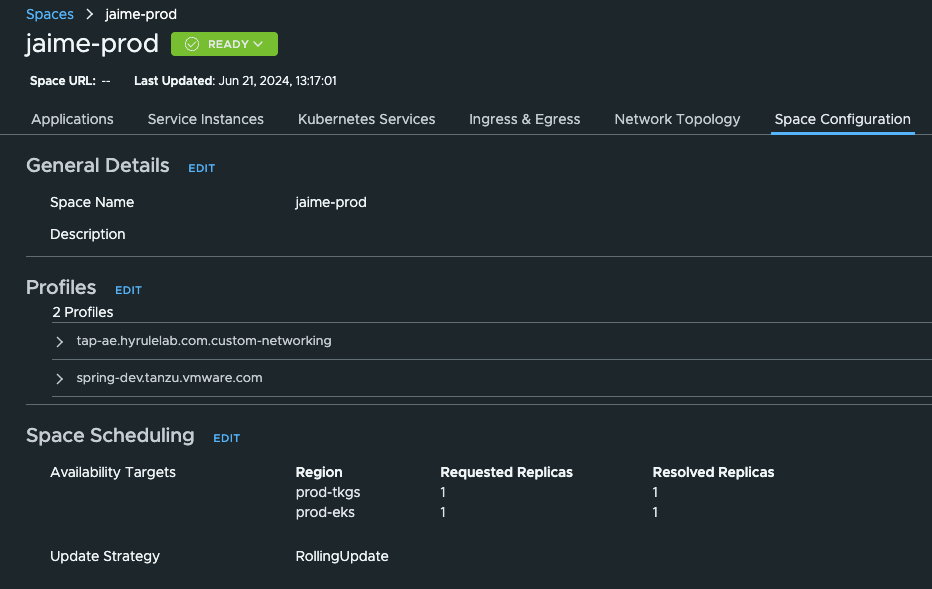
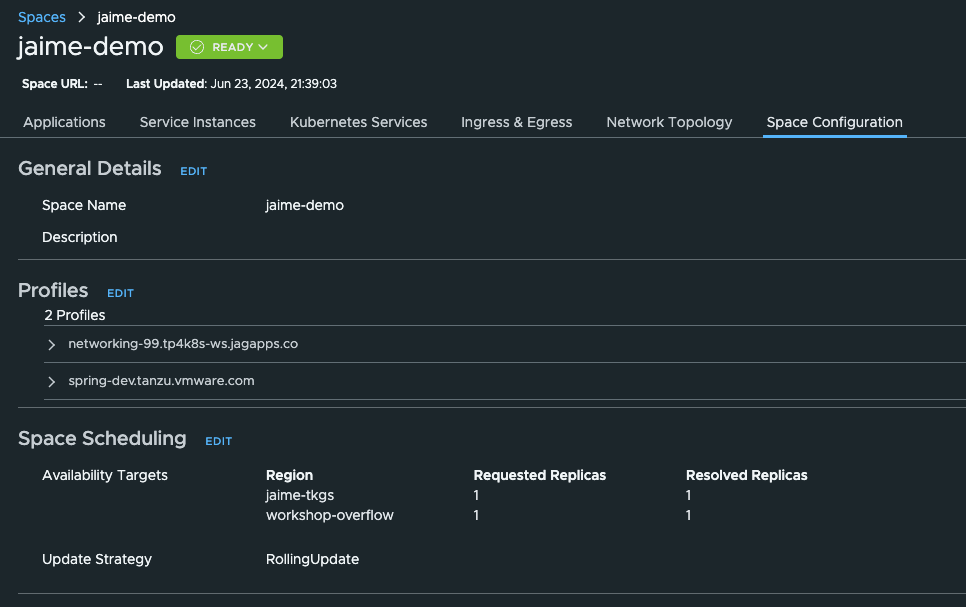
pe lab Ingress details and space screenshots

diff --git a/lab-platform-engineer/01-full-lab.md b/lab-platform-engineer/01-full-lab.md
@@ -87,7 +87,7 @@ In a day in the life of a Platform Engineer we will start by creating a Cluster 
 #### Create Cluster Group
 [Official documentation](https://docs.vmware.com/en/VMware-Tanzu-Platform/services/create-manage-apps-tanzu-platform-k8s/how-to-create-run-cluster-group.html)
 
-Access the Hub GUI: `Infrastructure > Kubedrnetes Clusters > Create Cluster Group > Choose a name`.
+Access the Hub GUI: `Infrastructure > Kubedrnetes Clusters > Create Cluster Group`. Choose a name that's unique for you (e.g: name-cg)
 
 Make sure to enable Tanzu Application Engine.
 
@@ -155,22 +155,22 @@ https://www.mgmt.cloud.vmware.com/hub/application-engine/capabilities?view=insta
 You should see something like this:
 ![ClusterGroup Capabilities](./img/cg-capabilities.png)
 
-Via command line you can check this:
+Via command line you can check all the Packages (pkgi resource) for those Capabilities are created by running these commands:
 ```
 alias tk='KUBECONFIG=~/.config/tanzu/kube/config kubectl'
 tk get pkgi
-NAME                                    PACKAGE NAME                            PACKAGE VERSION             DESCRIPTION   AGE
-k8sgateway.tanzu.vmware.com             k8sgateway.tanzu.vmware.com             0.0.7                                     21h
-cert-manager.tanzu.vmware.com           cert-manager.tanzu.vmware.com           2.9.1                                     21h
-observability.tanzu.vmware.com          observability.tanzu.vmware.com          1.0.13                                    21h
-mtls.tanzu.vmware.com                   mtls.tanzu.vmware.com                   0.0.1                                     21h
-servicebinding.tanzu.vmware.com         servicebinding.tanzu.vmware.com         0.13.0                                    21h
-spring-cloud-gateway.tanzu.vmware.com   spring-cloud-gateway.tanzu.vmware.com   2.2.4                                     21h
-container-apps.tanzu.vmware.com         container-apps.tanzu.vmware.com         0.0.3+1715585258.1ef0f6e7                 21h
-tanzu-servicebinding.tanzu.vmware.com   tanzu-servicebinding.tanzu.vmware.com   1.0.0+1717058073.8e6bdbf8                 21h
-bitnami.services.tanzu.vmware.com       bitnami.services.tanzu.vmware.com       0.6.0                                     21h
-tcs.tanzu.vmware.com                    tcs.tanzu.vmware.com                    2.2.11                                    21h
-crossplane.tanzu.vmware.com             crossplane.tanzu.vmware.com             0.6.1                                     21h
+NAME                                    PACKAGE NAME                            PACKAGE VERSION   DESCRIPTION   AGE
+cert-manager.tanzu.vmware.com           cert-manager.tanzu.vmware.com                                           2m8s
+k8sgateway.tanzu.vmware.com             k8sgateway.tanzu.vmware.com                                             2m7s
+tcs.tanzu.vmware.com                    tcs.tanzu.vmware.com                                                    2m5s
+observability.tanzu.vmware.com          observability.tanzu.vmware.com                                          2m4s
+mtls.tanzu.vmware.com                   mtls.tanzu.vmware.com                                                   2m4s
+crossplane.tanzu.vmware.com             crossplane.tanzu.vmware.com                                             2m2s
+bitnami.services.tanzu.vmware.com       bitnami.services.tanzu.vmware.com                                       2m2s
+container-apps.tanzu.vmware.com         container-apps.tanzu.vmware.com                                         2m
+servicebinding.tanzu.vmware.com         servicebinding.tanzu.vmware.com                                         119s
+tanzu-servicebinding.tanzu.vmware.com   tanzu-servicebinding.tanzu.vmware.com                                   118s
+spring-cloud-gateway.tanzu.vmware.com   spring-cloud-gateway.tanzu.vmware.com                                   117s
 ```
 
 #### (Optionl) Remove needed capability to test error scenario
@@ -187,12 +187,12 @@ Access the Hub GUI: `Infrastructure > Kuberentes Clusters > Clusters > Add Clust
     - The management cluster is the Supervisor cluster that the workshop owner provided you.
     - Provisioner: click to show a drop down menu and choose the name of the Supervisor Namespace that the workshop owner provided you.
 - Step 2: Name and assign
-    - Cluster name: pick a name. Tip: use something unique in it like your name and use a suffix with a number (you may create 2 clusters)
+    - Cluster name: pick a name. Tip: use something unique in it like your name and use a suffix with a number.
     - Cluster Group: click to show a drop down menu and choose the Cluster Group you created earlier.
     - Cluster class: click to show a drop down menu and choose `tanzukubernetesclusterclass`.
     - Labels: DO NOT SKIP! Choose a couple of labels to have options later to target your clusters. Examples:
         - `vsphere: 8.0.2c` -> to identify it as a TKGS/VCF cluster with version
-        - `test-jaime: true` -> to identify it as one of my test clusters (change to somehting unique for you)
+        - `jaime-demo: true` -> to identify it as one of my test clusters (change to somehting unique for you)
 - Step 3: Configure network and storage settings
     - Under Allowed storage clases, click on Add Storage Class and select the storage class from the drop down menu.
     - Under Default storage classe, do the same.
@@ -322,9 +322,9 @@ tanzu-system                 vss-k8s-collector                                 v
 We will use the yaml/CLI apprach to define & create the Availability Target to have more flexibility and to use a single matchExpression with two elements in order to have it work as an AND logical operator, which is not currently supported in the UI.
 
 Check the `at-tkgs.yaml` template file in this folder of the repo:
-- Notice to elements in the matchExpressions array: we want this availability target to match clusters that have the first label AND the second label.
+- Notice two elements in the matchExpressions array: we want this availability target to match clusters that have the first label AND the second label.
     - Let's keep the `vsphere` label and edit the other one to be something unique for you that describes your clusters
-- Change the `metadata.name` to something unique for you to avoid overlapping with other ATs in the project.
+- Change the `metadata.name` to something unique for you to avoid overlapping with other ATs in the project. Example: `yourname-tkgs`
 - Then create the AT following these commands:
 ```
 tanzu project use <project-name>
@@ -372,7 +372,7 @@ Here's the Ingress and GSLB Architecture:
 
 Access the Hub GUI: `Application Spaces > Profiles > Create Profile > Step by Step`:
 - Step 1: Name your Profile
-    - Choose a uniuque name, distinctive from other networking profiles for other networking profiles configured for other domain names. Example `networking.mydomain.com`:
+    - Choose a uniuque name, distinctive from other networking profiles configured for other domain names. Example `networking.mydomain.com`:
 - Step 2: Choose required traits:
     - `egress.tanzu.vmware.com`, `multicloud-cert-manager.tanzu.vmware.com`, and `multicloud-ingress.tanzu.vmware.com`. This will allow us to deploy the related packages in the k8s clusters with specific configuration for the Spaces that use this profile. More on this when we create a Space.
 - Step 3: Configure the `egress` trait:
@@ -426,11 +426,11 @@ tk get profile <profile-name> -oyaml | yq '(.status.conditions, .status.required
 
 Access the Hub GUI: `Application Spaces > Spaces > Create Space > Step by Step`:
 - Step 1: Name your Space:
-    - Choose a uniuque name, the convention we will use in this workshop is to provide some notion of the apps lifecycle. Example `myname-prod`:
+    - Choose a uniuque name, the convention we will use in this workshop is to provide some notion of the apps lifecycle. Example `yourname-demo`:
     - Make sure the name is under 27 characters to avoid hitting an issue with the DNS record creation process.
 - Step 2: Select the Profiles:
     - Choose the Custom Networking Profile you have created earlier
-    - Choose the Spring-dev profile which include all other Traits and Capabilities you will need in this workshop
+    - Choose the `spring-dev-simple.sa.tanzu.vmware.com` profile which include all other Traits and Capabilities you will need in this workshop.
 - Step 3: Select Avaiability Targets:
     - Click on `Add Availability Target` and choose the AT we created earlier which targets the TKGS cluster. Set # Replicas to `1`. This will be our vsphere/TKGS Fault Domain
     - Click on `Add Availability Target` and choose the `workshop-overflow` AT also with `1` replica. This will be our EKS Fault Domain
@@ -501,28 +501,28 @@ tk get myname-prod-588d6d66b5-2cjrc -oyaml .status
 kubectl get ns
 # we should now see two new namespaces that match with the managedspace resource name
 NAME                                    STATUS   AGE
-myname-prod-588d6d66b5-2cjrc            Active   56m  # this is the namespace where the apps will be deployed
-myname-prod-588d6d66b5-2cjrc-internal   Active   56m  # this is an auxiliary namespace that includes the traits packages and their configuration
+jaime-demo-58d6c9cf7d-wkbk9             Active   6m24s  # this is the namespace where the apps will be deployed
+jaime-demo-58d6c9cf7d-wkbk9-internal    Active   6m24s  # this is an auxiliary namespace that includes the traits packages and their configuration
 ```
 
 3. Check contents of the app namespace
 ```
-kubectl get pod,svc -n jaime-wkshp-tests-588d6d66b5-2cjrc
+kubectl get pod,svc -n jaime-demo-58d6c9cf7d-wkbk9
 # we should only see the multicloiud-ingress-operator pod since no apps have been deployed yet
-NAME                                              READY   STATUS    RESTARTS   AGE
-pod/multicloud-ingress-operator-784c6d947-wxprf   1/1     Running   0          63m
+NAME                                               READY   STATUS    RESTARTS   AGE
+pod/multicloud-ingress-operator-7bb85d98bc-7mrjj   1/1     Running   0          6m22s
 ```
 
 4. Check the packages in the auxiliar namespace
 ```
-kubectl get pkgi -n myname-prod-588d6d66b5-2cjrc-internal
+kubectl get pkgi -n jaime-demo-58d6c9cf7d-wkbk9-internal
 # we should see all namespace-bound packages spacific to the tratis we selected in all Profiles of our Space
 NAME                                              PACKAGE NAME                                PACKAGE VERSION   DESCRIPTION           AGE
-carvel-package-installer.tanzu.vmware.com-9b887   carvel-package-installer.tanzu.vmware.com   0.1.10            Reconcile succeeded   61m
-egress.tanzu.vmware.com-c796b                     egress.tanzu.vmware.com                     0.0.5             Reconcile succeeded   61m
-multicloud-cert-manager.tanzu.vmware.com-7c669    multicloud-cert-manager.tanzu.vmware.com    2.0.0             Reconcile succeeded   61m
-multicloud-ingress.tanzu.vmware.com-6db87         multicloud-ingress.tanzu.vmware.com         0.1.5             Reconcile succeeded   61m
-observability.tanzu.vmware.com-6d469              observability-traits.tanzu.vmware.com       1.0.2             Reconcile succeeded   61m
+carvel-package-installer.tanzu.vmware.com-9b887   carvel-package-installer.tanzu.vmware.com   0.1.10            Reconcile succeeded   8m3s
+egress.tanzu.vmware.com-6d9f5                     egress.tanzu.vmware.com                     0.0.5             Reconcile succeeded   8m3s
+multicloud-cert-manager.tanzu.vmware.com-86446    multicloud-cert-manager.tanzu.vmware.com    2.0.0             Reconcile succeeded   8m3s
+multicloud-ingress.tanzu.vmware.com-8948f         multicloud-ingress.tanzu.vmware.com         0.1.5             Reconcile succeeded   8m2s
+observability.tanzu.vmware.com-6d469              observability-traits.tanzu.vmware.com       1.0.2             Reconcile succeeded   8m2s
 ```
 
 #### Rplicating Spaces for Resiliency
@@ -548,41 +548,98 @@ tanzu deploy --from-build ./pre-built
 
 Access the Hub GUI: `Application Spaces > Spaces > Click in your space to view details`. The space will now show gradually:
 - Applications: the `spring-smoketest` application you just deployed
+![Space App](./img/spaceapp.png)
 - Kubernetes Services: `spring-smoketest` service and `default-gateway-istio` service for each cluster
+![Space K8s Services](./img/spacek8sservices.png)
 - Network Topology: 2 clusters each with the 2 k8s services. As traffic flows those servies should connect visually (more on this later)
 It may take some time for the k8s services and network topology to show everything. Wait at least a minute or 2 and click `Refresh` as needed.
-
+![Space Network Topology](./img/spacenetworktopology.png)
 
 #### Inspect resources created in the target clusters(s)
 1. Let's access our TKGS cluster the same way we did earlier in this workshop in the [Inspect Packages and Agents intalled](/lab-platform-engineer/01-full-lab.md#inspect-packages-and-agents-intalled) section.
 
 2. Check contents of the app namespace
-```
-kubectl get pod,svc,gateway -n jaime-wkshp-tests-588d6d66b5-2cjrc
-# We should now see the app pod and service, as well as the Istio Gateway resource, pod and service (type LB), in addition to the multicloiud-ingress-operator` pod we already had
-NAME                                               READY   STATUS    RESTARTS   AGE
-pod/default-gateway-istio-6dc59b76f6-rhg6h         1/1     Running   0          2m57s
-pod/multicloud-ingress-operator-84cb88dbd6-jlf9v   1/1     Running   0          2m59s
-pod/spring-smoketest-7b5d495995-gb4sb              2/2     Running   0          2m47s
+    ```
+    kubectl get pod,svc,gateway,httproute -n jaime-demo-58d6c9cf7d-wkbk9
+    # We should now see the app pod and service, as well as the Istio Gateway resource, pod and service (type LB), in addition to the multicloiud-ingress-operator` pod we already had
+    NAME                                               READY   STATUS    RESTARTS   AGE
+    pod/default-gateway-istio-59cd474cbc-8b6v4         1/1     Running   0          7m56s
+    pod/multicloud-ingress-operator-7bb85d98bc-7mrjj   1/1     Running   0          9m33s
+    pod/spring-smoketest-6c58cb6b8f-rrkcf              2/2     Running   0          7m37s
 
-NAME                            TYPE           CLUSTER-IP      EXTERNAL-IP   PORT(S)                        AGE
-service/default-gateway-istio   LoadBalancer   10.96.147.2     10.220.9.6    15021:31947/TCP,80:31437/TCP   2m58s
-service/spring-smoketest        ClusterIP      10.96.51.72     <none>        8080/TCP                       2m50s
+    NAME                            TYPE           CLUSTER-IP     EXTERNAL-IP   PORT(S)                        AGE
+    service/default-gateway-istio   LoadBalancer   10.96.84.137   10.220.9.7    15021:31734/TCP,80:31725/TCP   7m56s
+    service/spring-smoketest        ClusterIP      10.96.77.127   <none>        8080/TCP                       7m37s
 
-NAME                                                CLASS   ADDRESS      PROGRAMMED   AGE
-gateway.gateway.networking.k8s.io/default-gateway   istio   10.220.9.6   True         2m57s
-```
-Things to notice
-- The app has two containers, as it has the istio sidecar reuired for service mesh capabilities (mTLS) and observability.
-- Ingress into the space down to the application pod is possible thanks to the Istio Gateway. Its service has the external IP/CNAME to access the app from outisde the k8s cluster. This Istio Gateway has been programmed with the domain, listerners, ports, etc that we defined in our Profile and app Route. Let's see that in detail next.
+    NAME                                                CLASS   ADDRESS      PROGRAMMED   AGE
+    gateway.gateway.networking.k8s.io/default-gateway   istio   10.220.9.7   True         7m57s
+
+    NAME                                                                  HOSTNAMES   AGE
+    httproute.gateway.networking.k8s.io/hc-8e22-spring-somoketest-route               7m57s
+    httproute.gateway.networking.k8s.io/spring-somoketest-route                       7m57s
+    ```
+
+    Things to notice
+    - The app has two containers, as it has the istio sidecar reuired for service mesh capabilities (mTLS) and observability.
+    - Ingress into the space down to the application pod is possible thanks to the Istio Gateway.
+        - The `default-istio-gateway` has the `EXTERNAL-IP/CNAME` to access the app from outisde the k8s cluster.
+        - The Istio Gateway has been `Programmed` with the domain, listerners, ports, etc that we need. Let's see that in detail next.
+
+3. Let's check the HTTPRoute resource and the Gateway resource
+    ```
+    kubectl get httproute spring-somoketest-route -n jaime-demo-58d6c9cf7d-gqn78 -oyaml | yq .spec
+    parentRefs:
+    - group: gateway.networking.k8s.io
+        kind: Gateway
+        name: default-gateway
+        sectionName: http-spring-smoketest
+    rules:
+    - backendRefs:
+        - group: ""
+            kind: Service
+            name: spring-smoketest
+            port: 8080
+            weight: 1
+        matches:
+        - path:
+            type: PathPrefix
+            value: /
+
+    kubectl get gateway default-gateway -n jaime-demo-58d6c9cf7d-wkbk9 -oyaml | yq .spec
+    gatewayClassName: istio
+    listeners:
+    - allowedRoutes:
+        namespaces:
+            from: Same
+        hostname: spring-smoketest.99.tp4k8s-ws.jagapps.co
+        name: http-spring-smoketest
+        port: 80
+        protocol: HTTP
+    - allowedRoutes:
+        namespaces:
+            from: Same
+        hostname: hc-cfde.spring-smoketest.99.tp4k8s-ws.jagapps.co
+        name: http-hc-cfde.spring-smoketest
+        port: 80
+        protocol: HTTP
+    ```
+
+    Let's break it down a bit:
+    - The Istio Gateway has two `allowedRoutes` one for the actual application and one for the healthcheck that the platform creates for us.  
+        - Each of these routes have a dedicatd hostname, and a corresponding DNS record created automatically (in Route53)
+    - Focusing on the application route there are a couple of things at play:
+        - When we created the Custom Networking Profile we defined two listeners with two prefixes: `http-` and `https-`
+        - In the `spec.parentRefs[0].sectionName` of the HTTPRoute we use those prefixes:
+            - To choose if we want HTTP or HTTPS.
+            - Stripping off the prefix, we get the hostname we want to use for this application.
+        - Combining that application hostname and the domain we defined in the Custom Networking Profile we get the actual application FQDN defined in the `spec.listeners[0].hostname` of the Istio Gateway, once programed.
+
+4. Let's now go to AWS Route 53 to see the DNS records and Healthchecks.
+    ![Route53 Records](./img/route53records.png)
+    - We should see 2 sets of CNAME records: 1 CNAME per Space replica for the app traffic and 1 CNAME per space replica for the healthchecks
+    - We should also see an A record for a TKGS Space replica, since in the TKGS case we target a VIP in the Space instead of an ELB CNAME which we target for EKS clusters
 
 
-#### Review DNS, Load Balancing and Ingress
-1. Let's check the HTTPRoute resource
-2. Let's see the Istio Gateway configuration
+#### Bonus lab: check DNS-based Load Balancing behavior and look for improvements
 
-Let's now go to AWS Route 53 to see the DNS records and Healthchecks.
-
-#### Bonus lab, fix things for actual Load Balancing of traffic over EKS and TKGS clusters
-
-If you reached this part of the Lab successfully and your Space is in a healthy state, CONGRATULATIONS! your job as a Patform Engineer is done (for now) and your Application Development friends have now a ready to go and replicable Space where to deploy their applications.
+## If you reached this part of the Lab successfully and your Space is in a healthy state, CONGRATULATIONS! your job as a Patform Engineer is done (for now) and your Application Development friends have now a ready to go and replicable Space where to deploy their applications.
